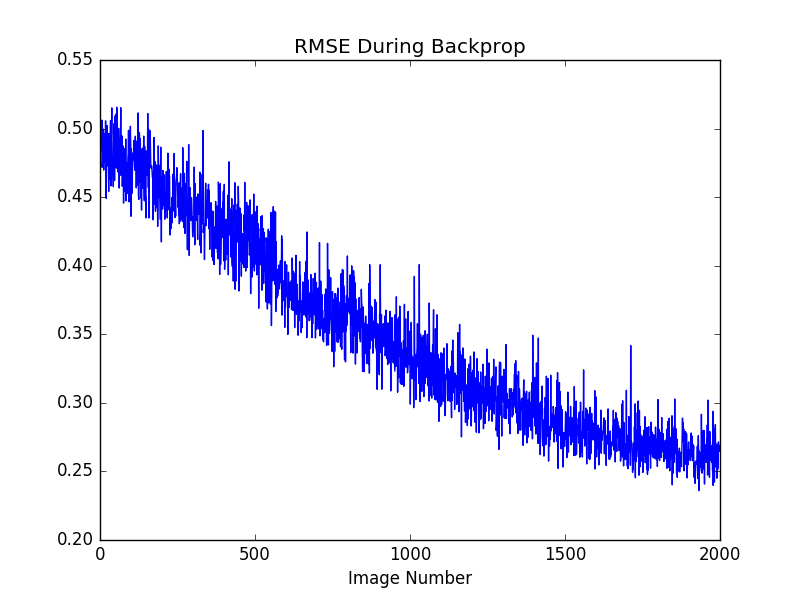
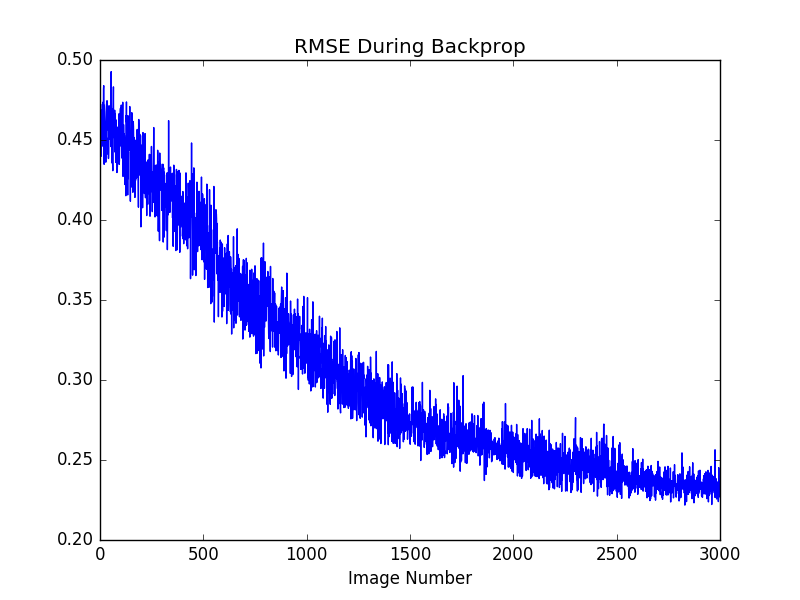
Tried with decreasing alpha - no success

diff --git a/Test/test_learning_many.py b/Test/test_learning_many.py
@@ -18,11 +18,11 @@ if (machine == 'Jack-PC'):
     sys.path.append('C:\\Users\\Jack2\\Desktop\\Git_Repos\\jc2\\Rozell')
     os.chdir('C:\\Users\\Jack2\\Desktop\\Git_Repos\\jc2\\MNIST_Load')
     file_path = 'C:\\Users\\Jack2\\Desktop'
-    dict1_path = file_path + '/orig_dict.png'
-    dict2_path = file_path + '/trained_dict.png'
-    dict3_path = file_path + '/trained_data.csv'
-    write_path = file_path + '/resid_data.csv'
-    plot_path = file_path + '/resid_plot.png'
+    dict1_path = file_path + '\\orig_dict.png'
+    dict2_path = file_path + '\\trained_dict.png'
+    dict3_path = file_path + '\\trained_data.csv'
+    write_path = file_path + '\\resid_data.csv'
+    plot_path = file_path + '\\resid_plot.png'
 elif (machine == 'Tab'):
     #Little laptop
     sys.path.append('C:\\Users\\Jack\\Desktop\\Git_Repos\\jc2\\MNIST_Load')
@@ -60,8 +60,8 @@ tau = 10.0
 delta = 0.01
 u_stop = 0.1
 t_type = 'S'
-alpha = 1.0
-num_stims = 59000
+alpha = 0.9
+num_stims = 10000
 num_nodes = 50
 num_dict_rows = 5
 num_dict_cols = int(num_nodes / num_dict_rows)
@@ -130,6 +130,9 @@ for i in range(num_iterations):
             print ("Image # ", j + 1)
         network.set_stimulus(training_data[j].flatten(), True)
         network.generate_sparse(True)
+        if ((j + 1) % 100 == 0):
+            alpha -= 0.00894
+            print (alpha)
         y = network.update_trained(alpha)
         resid_plot[j] = np.sqrt(np.dot(y,y))
         #resid_plot[i] = np.sqrt(np.dot(y,y))
@@ -139,6 +142,8 @@ for i in range(num_iterations):
             #print (im_pass)
 #Save out trained dictionary as image
 network.save_dictionary(num_dict_rows, num_dict_cols, dict2_path, True)
+data = pandas.DataFrame(network.trained * 255.)
+data.to_csv(dict3_path, index = False, header = False)
 
 #Write residual data to csv file and plot
 plt.plot(x, resid_plot, label = 'Raw')
@@ -147,3 +152,5 @@ plt.title('Reconstruction Error - ' + str(num_stims) + ' stims, '\
         + str(num_nodes) + ' nodes, alpha = ' + str(alpha))
 plt.savefig(plot_path)
 plt.show()
+print(alpha)
+

diff --git a/Test/test_learning2.py b/Test/test_learning2.py
@@ -19,6 +19,7 @@ if (machine == 'Jack-PC'):
     os.chdir('C:\\Users\\Jack2\\Desktop\\Git_Repos\\jc2\\MNIST_Load')
     file_path = 'C:\\Users\\Jack2\\Desktop'
     dict_path = file_path + '\\Git_Repos\\jc2\\Classify\\notrain_dict.csv'
+    dict3_path = file_path + '\\trained_data.csv'
     plot_path = file_path + '\\Git_Repos\\jc2\\Classify\\RMSE_plot'
     accuracy_path = file_path + '\\Git_Repos\\jc2\\Classify\\Accuracy_plot'
     weight_path = file_path + '\\Git_Repos\\jc2\\Classify\\weights.csv'
@@ -53,11 +54,11 @@ import classify
 lamb = 1.
 tau = 10.
 delta = 0.01
-u_stop = .001
+u_stop = .1
 t_type = 'S'
 
 ################### Load MNIST image and label data #############################################
-num_images  = 1000
+num_images  = 3000
 start_pos = 40000
 image_file = 'train-images.idx3-ubyte'
 label_file = 'train-labels.idx1-ubyte'
@@ -65,7 +66,7 @@ image_data = mnist.load_images(image_file, num_images, start_pos)
 label_data = mnist.load_labels(label_file, num_images, start_pos)
 
 ################## Scale data down before running through network ##############################
-dict_data = pd.read_csv(dict_path, header = None)
+dict_data = pd.read_csv(dict3_path, header = None)
 dict_data = dict_data.values / 255.
 for i in range(len(image_data)):
     image_data[i] = image_data[i].astype(float)
@@ -120,7 +121,7 @@ count = 0
 error_plot = np.array([])
 accuracy_plot = np.array([])
 confusion = np.zeros((10,10), dtype='int32')  #rows = actual, columns = predicted
-pdb.set_trace()
+#pdb.set_trace()
 for i, j in zip(image_data, label_data):
     count += 1
     #Run Rozell and forwardprop

diff --git a/Test/test_r_network.py b/Test/test_r_network.py
@@ -14,6 +14,8 @@ if (machine == 'Jack-PC'):
     sys.path.append('C:\\Users\\Jack2\\Desktop\\Git_Repos\\jc2\\MNIST_Load')
     sys.path.append('C:\\Users\\Jack2\\Desktop\\Git_Repos\\jc2\\Rozell')
     os.chdir('C:\\Users\\Jack2\\Desktop\\Git_Repos\\jc2\\MNIST_Load')
+    dict_path = 'C:\\Users\\Jack2\\Desktop\\dict.png'
+    stim_path = 'C:\\Users\\Jack2\\Desktop\\stim.png'
 elif (machine == 'Tab'):
     #Little laptop
     sys.path.append('C:\\Users\\Jack\\Desktop\\Git_Repos\\jc2\\MNIST_Load')
@@ -44,8 +46,10 @@ num_images = 1
 
 #Load MNIST dictionary and signal
 image_file = 't10k-images.idx3-ubyte'  #'train-images.idx3-ubyte'
-signal_data = mnist.load_images(image_file, num_images)
+signal_data = mnist.load_images(image_file, num_images, 50)
+Image.fromarray(signal_data[0]).save(stim_path)
 
+'''
 #Scale stimulus and dictionary before running Rozell
 signal_data[0] = signal_data[0].astype(float)
 signal_data[0] /= 255.
@@ -65,10 +69,11 @@ D = sp.build_dictionary(dict_data)
 
 #Run Rozell and generate sparse code
 network = lca.r_network(D)
+#network.save_dictionary(5, 10, dict_path)
 network.set_parameters(lamb, tau, delta, u_stop, t_type)
 error_names = ['E(t)', 'Resid', 'Cost', 'Sparsity']
 #lambdas = np.arange(0.1, 10.5, 1)
-lambdas = [1.]
+lambdas = [3.]
 
 #pdb.set_trace()
 #For each image, run Rozell then generate error table and image grid
@@ -107,3 +112,5 @@ for i in range(num_images):
     im_grid2 = Image.fromarray(grid2)
     im_grid.show()
     im_grid2.show()
+
+'''
